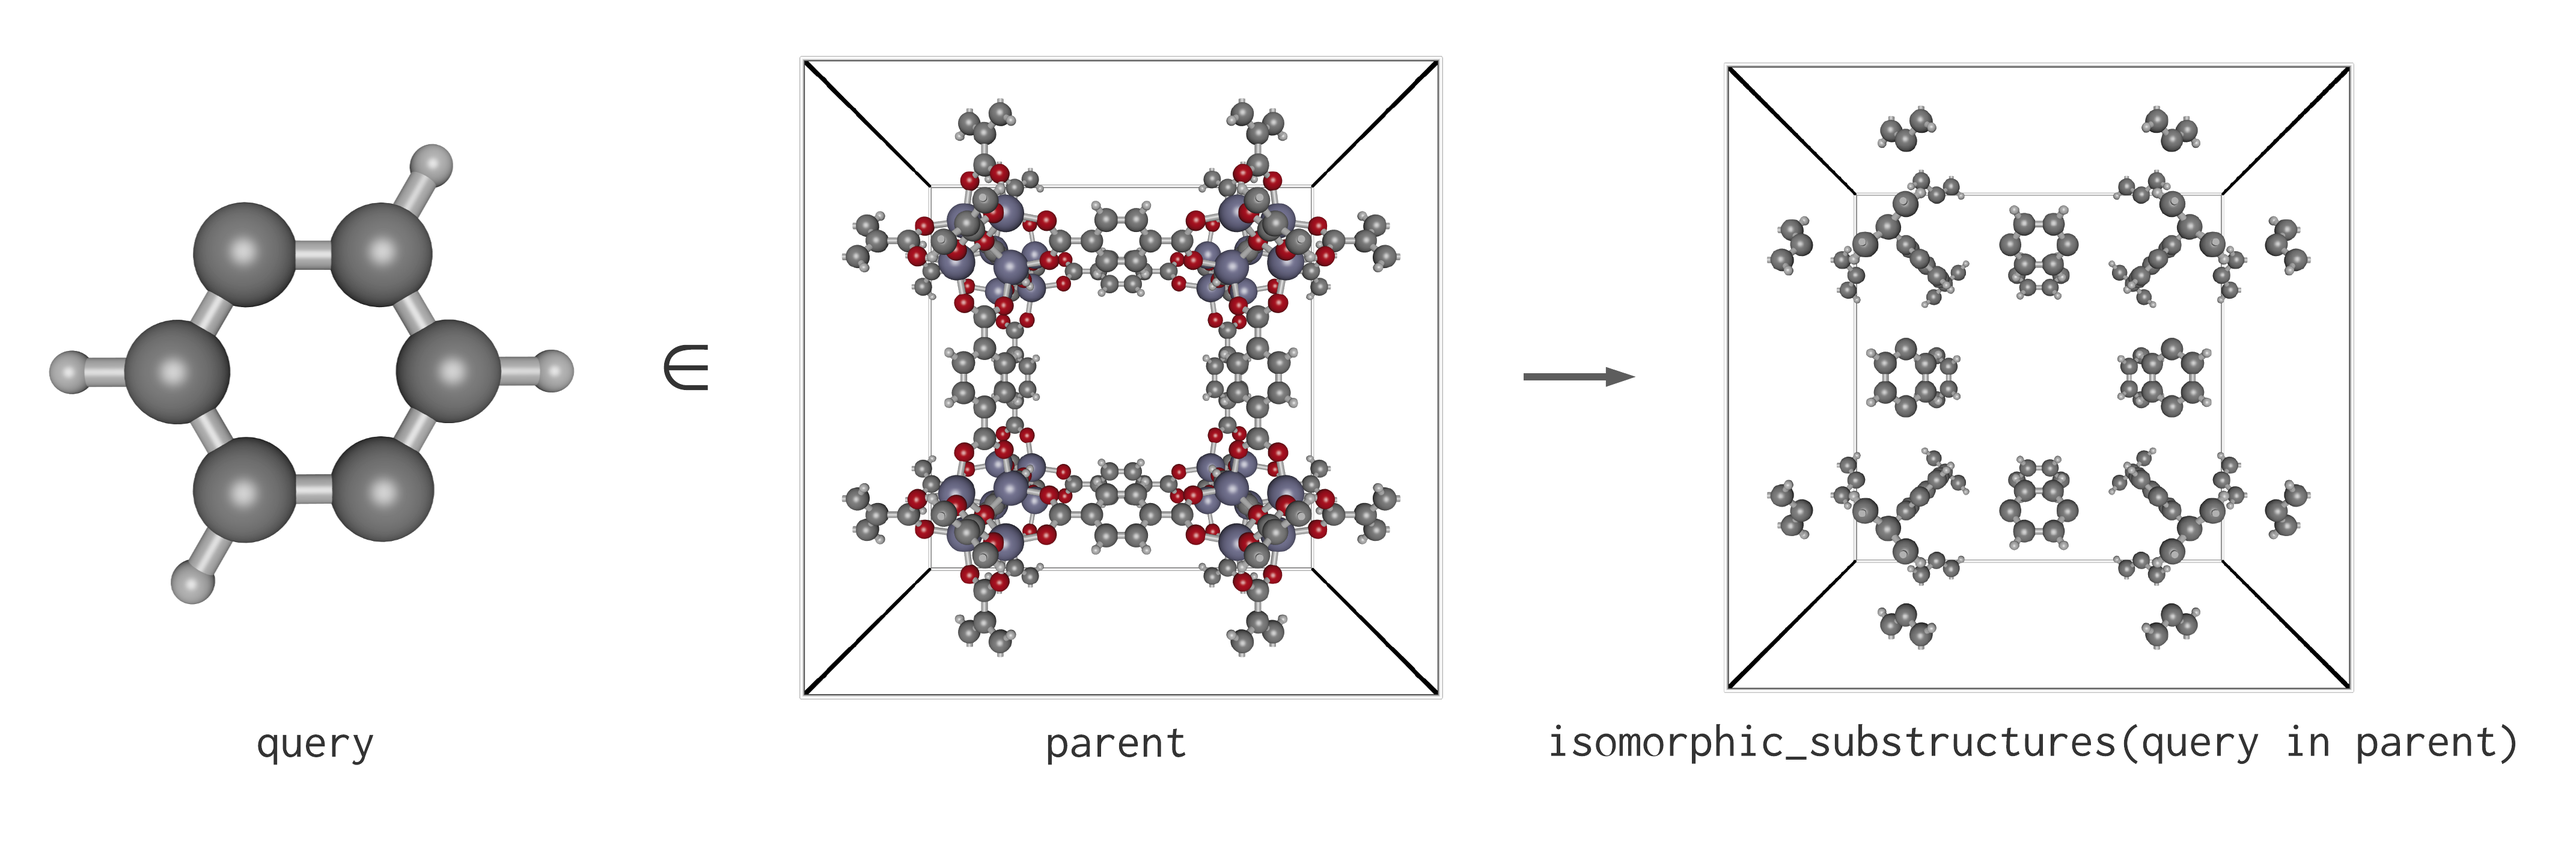
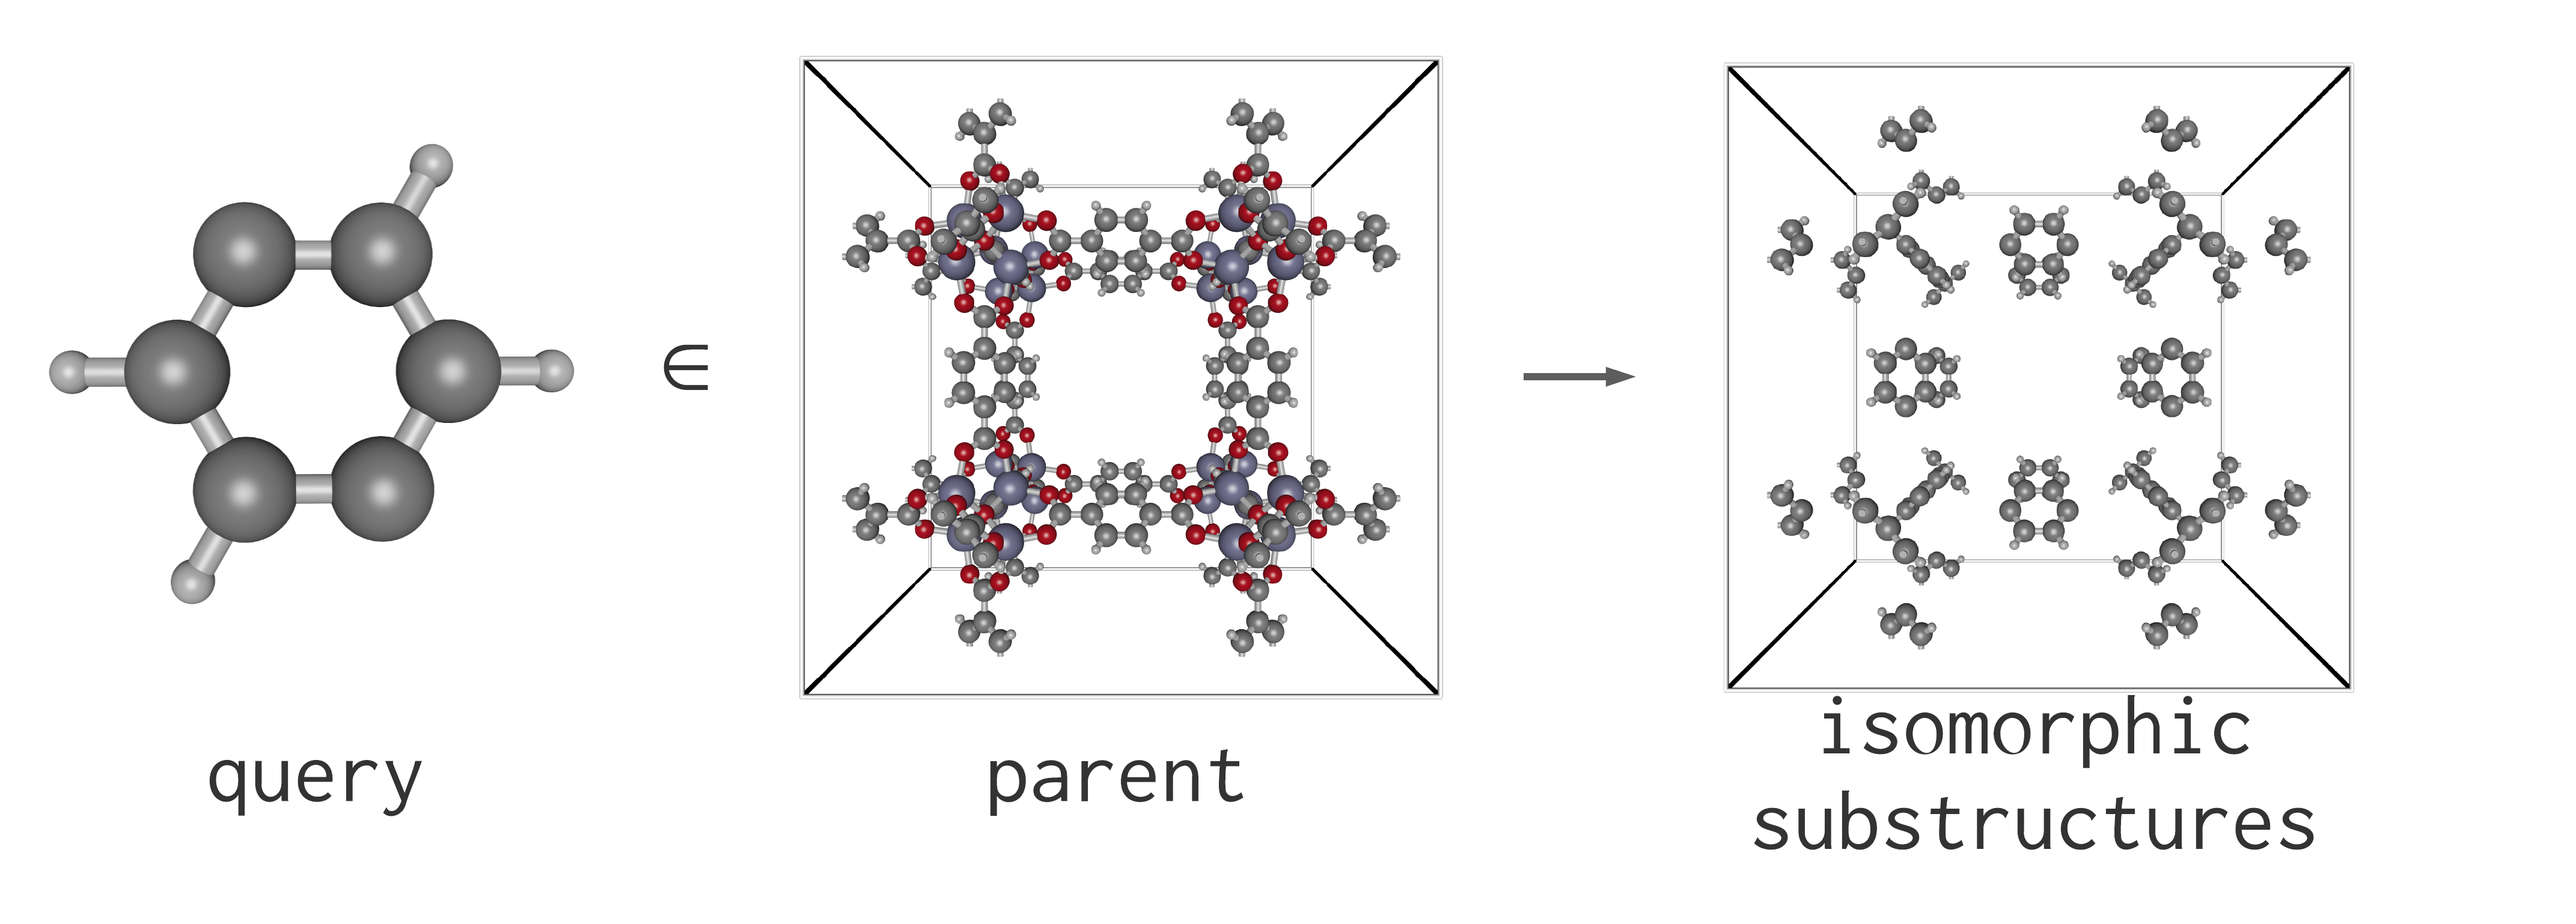
Final touchup (#84)
* readme

* inputs page

* user newer image

* find

* replace

* replace updates

* specific about replacement modes

* replace docs update

* small change in index

* better example image

* fix doctests

* add docstring

* new example description

diff --git a/docs/src/manual/replace.md b/docs/src/manual/replace.md
@@ -1,42 +1,71 @@
 ```@meta
 DocTestSetup = quote
     using PoreMatMod
-    parent = Crystal("IRMOF-1.cif")
-    infer_bonds!(parent, true)
 end
 ```
-
 # Find/Replace Operations
+
+Suppose we wish to conduct the find-and-replace operations illustrated in the figure below, to produce an acetylamido-functionalized IRMOF-1 structure.
 
 ![replacement scheme](../../assets/replace/s_moty-to-r_moty.png)
 
-To do a find-and-replace, we perform a search using a `query` with masked atoms, denoted by appending their chemical species label with `!` (see above).
-Masking an atom allows its species to change or for it to be deleted during the replacement.
+#### the `parent` structure
+First, we load the `parent` IRMOF-1 structure and infer its bonds.
 
-## Inputs
+```jldoctest replace_md; output=false
+parent = Crystal("IRMOF-1.cif")
+infer_bonds!(parent, true)
+# output
+true
+```
 
-To guide replacement, the `.xyz` file input for the search moiety must be altered.  
-Simply adding `!` after the atomic symbol tags that atom for replacement.
-The atom property viewer feature in [iRASPA](https://iraspa.org/) is conducive to this task.
+#### the `query` fragment
+Next, we define a `query` fragment as a *p*-phenylene moiety.
+To guide the replacement, the masked atoms of the `query` fragment must be annotated with `!` in the `.xyz` input file by appending a `!` character at the end of their atomic symbols.
+The atom property viewer feature in [iRASPA](https://iraspa.org/) is useful for figuring out which atom(s) to mask.
 
-In the example of finding and replacing the 2 position H of the *p*-phenylene moieties of IRMOF-1, the input should have one H atom tagged, like so:
+!!! note
+    A masked atom (marked with `!`) in the `query` fragment implies that the corresponding atom of the `parent` crystal structure (i) must be removed [e.g., to make room for replacement with a different functionality] but (ii) does not correspond with an atom on the `replacement` fragment and thus cannot be used in the process of aligning the `replacement` fragment onto the `parent` crystal. 
+
+In our example, in `2-!-p-phenylene.xyz` input file describing our *p*-phenylene `query` fragment, one H atom is masked (see figure above):
 
 ```
+10
+
+C         -1.71069        0.96969       -0.46280
+C         -0.48337        1.30874        0.11690
+C         -2.33707       -0.23371       -0.12103
+C          0.11757        0.44439        1.03836
+C         -0.50881       -0.75900        1.38013
+C         -1.73613       -1.09805        0.80043
 H!         1.06706        0.70670        1.48683
+H          0.00122        2.23972       -0.14750
+H         -3.28655       -0.49601       -0.56950
+H         -2.22071       -2.02904        1.06484
 ```
 
-Load the new file in like before and execute the search.
-The `!` tag does not affect the outcome of `substructure_search`.
+We then read the input file for the `query` fragment.
 
 ```jldoctest replace_md; output=false
 query = moiety("2-!-p-phenylene.xyz")
-search = query in parent
 # output
-2-!-p-phenylene.xyz ∈ IRMOF-1.cif
-96 hits in 24 locations.
+Name: 2-!-p-phenylene.xyz
+Bravais unit cell of a crystal.
+	Unit cell angles α = 90.000000 deg. β = 90.000000 deg. γ = 90.000000 deg.
+	Unit cell dimensions a = 1.000000 Å. b = 1.000000 Å, c = 1.000000 Å
+	Volume of unit cell: 1.000000 Å³
+
+	# atoms = 10
+	# charges = 0
+	chemical formula: Dict(:H => 3, :H! => 1, :C => 6)
+	space Group: P1
+	symmetry Operations:
+		'x, y, z'
 ```
 
-To replace *p*-phenylene moieties with 2-acetylamido-*p*-phenylene moieties, load [2-acetylamido-p-phenylene.xyz](../../../assets/replace/2-acetylamido-p-phenylene.xyz):
+#### the `replacement` fragment
+
+Next, we read in the acetylamido-functionalized version of the `query` fragment, [2-acetylamido-p-phenylene.xyz](../../../assets/replace/2-acetylamido-p-phenylene.xyz), as the `replacement` fragment:
 
 ```jldoctest replace_md; output=false
 replacement = moiety("2-acetylamido-p-phenylene.xyz")
@@ -55,12 +84,47 @@ Bravais unit cell of a crystal.
 		'x, y, z'
 ```
 
+#### the find step
 
-## Simple Syntax
+We search for subgraphs of the `parent` structure that match the `query` fragment.
+Note the `!` tags are ignored during the `substructure_search`.
 
-Generally, it is advisable to perform the `search` and use `substructure_replace`, as multiple replacement tasks can be performed with a single searching step.
-The search is usually the slowest step, and it is desirable not to perform it repeatedly.
-However, for one-shot find-and-replace operations, the standard `replace` function syntax may be used:
+```jldoctest replace_md; output=false
+search = query in parent
+# output
+2-!-p-phenylene.xyz ∈ IRMOF-1.cif
+96 hits in 24 locations.
+```
+
+#### the replace step
+The code below will, at each location in the `parent` where a substructure matched the `query` fragment, choose a random orientation (corresponding to an overlay of the `query` with the substructure), align and install the replacement fragment, then remove the original substructure, giving the `child` structure shown in the figure above.
+
+```jldoctest replace_md; output=false
+child = substructure_replace(search, replacement)
+# output
+Name: new_xtal
+Bravais unit cell of a crystal.
+	Unit cell angles α = 90.000000 deg. β = 90.000000 deg. γ = 90.000000 deg.
+	Unit cell dimensions a = 25.832000 Å. b = 25.832000 Å, c = 25.832000 Å
+	Volume of unit cell: 17237.492730 Å³
+
+	# atoms = 592
+	# charges = 0
+	chemical formula: Dict(:N => 3, :Zn => 4, :H => 21, :O => 16, :C => 30)
+	space Group: P1
+	symmetry Operations:
+		'x, y, z'
+```
+
+To direct the number, location, and orientation of the replacements, use the keyword arguments for [`substructure_replace`](@ref). Particularly, the location `loc` and orientation `ori` keyword arguments specify a particular isomorphism to use (in reference to `search.isomorphisms`) when conducting a replacement operation. The figure below illustrates.
+
+![loc/ori example](../../assets/replace/loc_ori_example.png)
+
+For more details, see the [search docs](../../find) and the [replacement modes example](../../../examples/replacement_modes.html).
+
+### quick find-and-replace syntax
+
+For one-shot find-and-replace operations, the `replace` function may be used:
 
 ```jldoctest replace_md; output=false
 child = replace(parent, query => replacement)
@@ -79,15 +143,12 @@ Bravais unit cell of a crystal.
 		'x, y, z'
 ```
 
-To direct the number, location, and orientation of the replacements made, use the keyword arguments for [`substructure_replace`](@ref).
-Location `loc` and orientation `ori` specify a particular isomorphism to use when setting up the replacement operation.
-
-![loc/ori example](../../assets/replace/loc_ori_example.png)
-
-For more details, see the [search docs](../../manual/find) and the [replacement modes example](../../examples/replacement_modes.html).
+!!! note
+    Generally, it is advisable to perform the search using `substructure_replace` then pass it to `replace`, as multiple replacement tasks can then be performed on the basis of the search step as opposed to repeating it for each replacement. The search is usually the slowest step, and it is desirable not to perform it repeatedly.
 
 ## Documentation of functions
 
 ```@docs
 substructure_replace
+replace
 ```

diff --git a/docs/src/manual/find.md b/docs/src/manual/find.md
@@ -9,15 +9,16 @@ end
 
 # Subgraph matching (substructure searches)
 
-![find graphic](../../assets/find/s_moty-in-xtal.png)
 
 `PoreMatMod.jl` conducts subgraph matching, i.e. searches for subgraphs of a `parent` graph isomorphic to a `query` graph, using [Ullmann's algorithm for subgraph isomorphisms](https://doi.org/10.1145/321921.321925).
 
-For subgraph matching, both the `parent` crystal structure and `query` fragment are represented by node-labeled (by the chemical species) graphs. For crystals, bonds across the unit cell boundaries of periodic materials are accounted for, allowing us to find subgraph isomorphisms when the fragment is split across a unit cell boundary.
+For subgraph matching, both the `parent` crystal structure and `query` fragment are represented by node-labeled (by the chemical species) graphs (nodes = atoms, edges = bonds). For crystals, bonds across the unit cell boundaries of periodic materials are accounted for, allowing us to find subgraph isomorphisms when the fragment is split across a unit cell boundary.
 
 # Substructure Searches: how to
 
 To learn by example, suppose we wish to search the IRMOF-1 crystal structure for *p*-phenylene fragments.
+
+![find graphic](../../assets/find/s_moty-in-xtal.png)
 
 First, we load the `query` fragment and `parent` crystal structure:
 ```julia
@@ -37,10 +38,17 @@ p-phenylene.xyz ∈ IRMOF-1.cif
 ```
 
 !!! note "Syntactic sugar for substructure search"
-    The `∈` (`\in` then hit `Tab` for this Unicode character) infix operator will also execute the search:
+    The `∈` (`\in` then hit `Tab` for this Unicode character) or `in` infix operators will also execute the search:
 
-    ```julia
+    ```jldoctest find; output=false
     search = query ∈ parent
+    # or
+    search = query in parent
+    # or
+    search = substructure_search(query, parent)
+    # output
+    p-phenylene.xyz ∈ IRMOF-1.cif
+    96 hits in 24 locations.
     ```
 
 
@@ -144,12 +152,20 @@ Bravais unit cell of a crystal.
 
 ## Stereochemistry and Isomorphism
 
-An undirected, node-labeled graph representation of a molecule/crystal structure is invariant with respect to stereochemistry.
+The node-labeled graph representation of a molecule/crystal structure is invariant with respect to stereochemistry.
 In other words, every rotational/conformational state and stereoisomer of a structure share the same graph representation.
 What this means is that `PoreMatMod.jl` may find more subgraph matches than you may first expect. 
 
-Example 1: searching for [BDC.xyz](../../../assets/find/BDC.xyz) `query` in IRMOF-1 `parent` instead of the more minimal *p*-phenylene fragment.
-Thanks to the two carboxyl groups, the total number of isomorphisms is multiplied by a factor of 4, due to the graph-equivalence of the oxygen atoms in each group.  
+*Example 1*: Suppose we search for a carboxylate with beta hydrogen in acrylate.
+
+![symmetry viz](../../assets/find/symmetry.png)
+
+There is clearly only one substructure of acrylate that matches the query.
+However, there are two subgraph isomorphisms, because swapping the oxygen atoms in the point cloud representation results in the same graph representation. 
+The above image gives a closer look at how these degenerate representations translate to multiple isomorphisms for a single occurence of a fragment in a structure.
+
+*Example 2*: Suppose we search the IRMOF-1 `parent` structure for the [BDC.xyz](../../../assets/find/BDC.xyz) linker as the `query` instead of the more minimal *p*-phenylene `query` fragment.
+Thanks to the two carboxyl groups, the total number of isomorphisms is multiplied by a factor of 4, due to the 180 degree rotation of these groups having no effect on the graph representation.
 The number of _locations_ at which the isomorphisms are found, however, is unchanged.
 
 ```jldoctest find
@@ -164,14 +180,6 @@ nb_locations(search)
 # output
 24
 ```
-
-Example 2: searching for *p*-benzoate in 1,4-benzene-dicarboxylate (BDC).
-
-![symmetry viz](../../assets/find/symmetry.png)
-
-The above image gives a closer look at how these degenerate representations translate to multiple isomorphisms for a single occurence of a fragment in a structure.
-There are clearly two subgraphs of BDC that are isomorphic to *p*-benzoate (since there are two carboxyl groups on BDC).
-However, there are four total isomorphisms, because the labeling of the two oxygen atoms can be swapped to give a new point cloud for each of the two obvious alignments, and all four point clouds share a single graph representation.
 
 **Note**: We advise to define the `query` using the most minimal structure that matches the targeted `parent` substructure.
 

diff --git a/README.md b/README.md
@@ -3,15 +3,15 @@
 
 `PoreMatMod.jl` is a [Julia](https://julialang.org/) package for (i) subgraph matching and (ii) modifying crystal structures such as metal-organic frameworks (MOFs).
 
-Functioning as a "find-and-replace" tool on atomistic structure models of porous materials, `PoreMatMod.jl` is useful for:
+Functioning as a "find-and-replace" tool on atomistic crystal structure models of porous materials, `PoreMatMod.jl` is useful for:
 
 :hammer: subgraph matching to filter databases of crystal structures
 
-:hammer: create hypothetical crystal structure models of functionalized structures
+:hammer: constructing hypothetical crystal structure models of functionalized structures
 
-:hammer: introduce defects into crystal structures
+:hammer: introducing defects into crystal structures
 
-:hammer: repair artifacts of X-ray structure determination, such as missing hydrogen atoms, disorder, and guest molecules
+:hammer: repairing artifacts of X-ray structure determination, such as missing hydrogen atoms, disorder, and guest molecules
 
 N.b. while `PoreMatMod.jl` was developed for MOFs and other porous crystalline materials, its find-and-replace operations can be applied to discrete, molecular structures as well by assigning an arbitrary unit cell.
 
@@ -36,17 +36,20 @@ Link to documentation [here](https://simonensemble.github.io/PoreMatMod.jl/).
 Link to examples [here](https://simonensemble.github.io/PoreMatMod.jl/examples/) with raw [Pluto](https://github.com/fonsp/Pluto.jl) notebooks [here](https://github.com/SimonEnsemble/PoreMatMod.jl/tree/master/examples).
 
 ## Citing
+
+If you found `PoreMatMod.jl` useful, please cite our paper. :point_down:
+
 ```latex
 @misc{henle2021pmm,
     title={PoreMatMod.jl: Julia package for in silico post-synthetic modification of crystal structure models.},
-    author={E. Adrian Henle and Nickolas Gantzler and Praveen K. Thallapally and Xiaoli Z. Fern and Cory M. Simon}
-    year={2021}
+    author={E. Adrian Henle and Nickolas Gantzler and Praveen K. Thallapally and Xiaoli Z. Fern and Cory M. Simon},
+    year={2021},
     preprint={ChemRxiv}
 }
 ```
 ## Contributing
 
-`PoreMatMod.jl` is being actively developed and we encourage feature requests and community feedback [on GitHub](https://github.com/SimonEnsemble/PoreMatMod.jl/issues).
+We encourage feature requests and feedback [on GitHub](https://github.com/SimonEnsemble/PoreMatMod.jl/issues).
 
 ## License
 `PoreMatMod.jl` is licensed under the [MIT license](./LICENSE).

diff --git a/docs/src/manual/inputs.md b/docs/src/manual/inputs.md
@@ -10,7 +10,7 @@ This section details how to load data into `PoreMatMod.jl`, including the handli
 
 ## Crystal structures
 
-Accepted file formats for crystal structures (containing atomic coordinates and unit cell information) are `.cif` and `.cssr`. See [here](https://en.wikipedia.org/wiki/Crystallographic_Information_File) for information about CIF files.
+Accepted file formats for crystal structures (containing atomic coordinates and unit cell information) are `.cif` (see [here](https://en.wikipedia.org/wiki/Crystallographic_Information_File)) and `.cssr`.
 
 Crystal structure files (`.cif`, `.cssr`) are read from the path `rc[:paths][:crystals]`.
 
@@ -30,7 +30,7 @@ Both `Crystal` and `infer_bonds!` are inherited from `Xtals.jl` (see the [`docs`
 
 ## Query and Replacement Fragments
 
-Accepted file formats for chemical fragments (list of atoms and their Cartesian coordinates) are `.xyz`. See [here](https://en.wikipedia.org/wiki/XYZ_file_format) for information about XYZ files. 
+Accepted file formats for chemical fragments (list of atoms and their Cartesian coordinates) are `.xyz` (see [here](https://en.wikipedia.org/wiki/XYZ_file_format)).
 
 Query and replacement fragment files (`.xyz`) are read from the path `rc[:paths][:moieties]`.
 
@@ -62,13 +62,13 @@ The [`moiety`](@ref) reader also returns a `Crystal` data structure but with a (
 
 `rc[:paths][:crystals]` and `rc[:paths][:moieties]` default to `./data/crystals` and `./data/moieties`, respectively.
 
-To change the paths from where the files are read, change `rc[:paths][:crystals]` and `rc[:paths][:moieties]`.
+To change the paths from where the input files are read, change `rc[:paths][:crystals]` and `rc[:paths][:moieties]`.
 
 !!! example
     Suppose we wish to store our `.cif` files in `~/my_xtals` and our `.xyz` files in our present working directory.
 
     ```julia
-    rc[:paths][:crystals] = joinpath(homedir(), "my_xtals_folder")
+    rc[:paths][:crystals] = joinpath(homedir(), "my_xtals")
     rc[:paths][:moiety] = pwd()                                  
     ```
 

diff --git a/docs/src/index.md b/docs/src/index.md
@@ -2,7 +2,7 @@
 
 `PoreMatMod.jl` is a software package in [Julia](https://julialang.org/) for (i) subgraph matching and (ii) modifying crystal structures. 
 
-Functioning as a "find-and-replace" tool on atomistic structure models of porous materials, `PoreMatMod.jl` can:
+Functioning as a "find-and-replace" tool on atomistic crystal structure models of porous materials, `PoreMatMod.jl` can:
 * search crystals for chemical substructures
 * create libraries of hypothetical structures by e.g. decoration with functional groups
 * correct artifacts of X-ray structure determination (missing H, disorder, guests)

diff --git a/docs/src/examples.md b/docs/src/examples.md
@@ -21,7 +21,7 @@ Click on the images or descriptions below to see Pluto notebooks demonstrating e
 
 
 !!! example "Example: Using different replacement modes"
-    Replace BDC with nitro-BDC in IRMOF-1 using the different replacement modes to obtain different results.
+    Replace BDC with nitro-BDC in IRMOF-1 using the different replacement modes to control (i) which linkers are functionalized and (ii) the substitution site on each linker.
 
     [link](../examples/replacement_modes.html)
 
